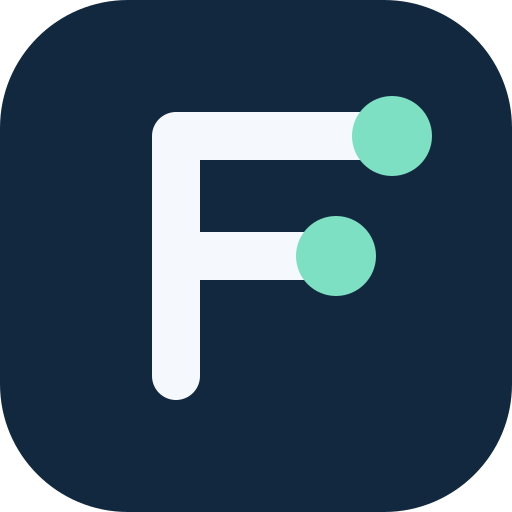
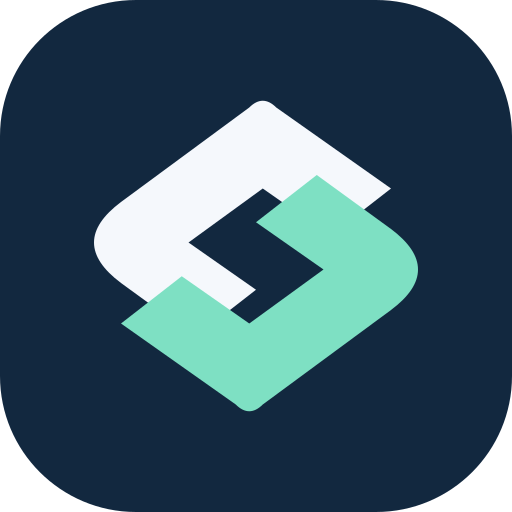
updated readme

diff --git a/assets/brand/README.md b/assets/brand/README.md
@@ -1,6 +1,6 @@
 # Fehm brand kit
 
-An F-shaped source graph: one continuous spine, two connections, two mint nodes. Navy provides contrast; mint highlights relationships. All SVG marks are original vector artwork, with no external resources. These assets are covered by the repository’s MIT license.
+The aperture mark: two asymmetric, folded ribbons surround a diagonal opening. The interlocking silhouette represents separate pieces of code becoming a connected understanding. Its angled cuts and offset halves replace the literal F and graph dots. Navy provides contrast; mint distinguishes the second ribbon. All SVG marks are original vector artwork, with no external resources. These assets are covered by the repository’s MIT license.
 
 | Asset | Use |
 | --- | --- |
@@ -13,7 +13,7 @@ An F-shaped source graph: one continuous spine, two connections, two mint nodes.
 | `fehm-logo-light.svg` | Path-based wordmark for dark backgrounds |
 | `readme-banner.svg` | Repository header illustration |
 
-Colors: navy `#12283F`, mint `#7EE0C3`, darker mint for light surfaces `#22977A`, off-white `#F5F8FC`. Leave at least one node diameter of clear space around the mark. Keep its proportions. Use the icon at small sizes, and the wordmark when there is enough room to read the name.
+Colors: navy `#12283F`, mint `#7EE0C3`, darker mint for light surfaces `#22977A`, off-white `#F5F8FC`. Leave at least one ribbon width of clear space around the mark. Keep its proportions. Use the icon at small sizes, and the wordmark when there is enough room to read the name.
 
 ## Website and Vite
 

diff --git a/README.md b/README.md
@@ -235,7 +235,7 @@ SLSA and OpenSSF are marked **not assessed**. This repository does not currently
 
 <p align="center"><img src="assets/brand/fehm-icon.svg" width="80" alt="Fehm app icon">&nbsp;&nbsp;<img src="assets/brand/fehm-logo.svg" width="290" alt="Fehm wordmark"></p>
 
-The connected F mark represents source relationships. Use the [brand kit](assets/brand/README.md) for SVG logos, light/dark and monochrome variants, a PNG app icon, favicon setup and Vite usage. The SVG wordmark uses vector paths rather than an external font.
+The aperture mark brings two folded ribbons together around a diagonal opening, representing connected understanding. Use the [brand kit](assets/brand/README.md) for SVG logos, light/dark and monochrome variants, a PNG app icon, favicon setup and Vite usage. The SVG wordmark uses vector paths rather than an external font.
 
 ## Documentation
 
